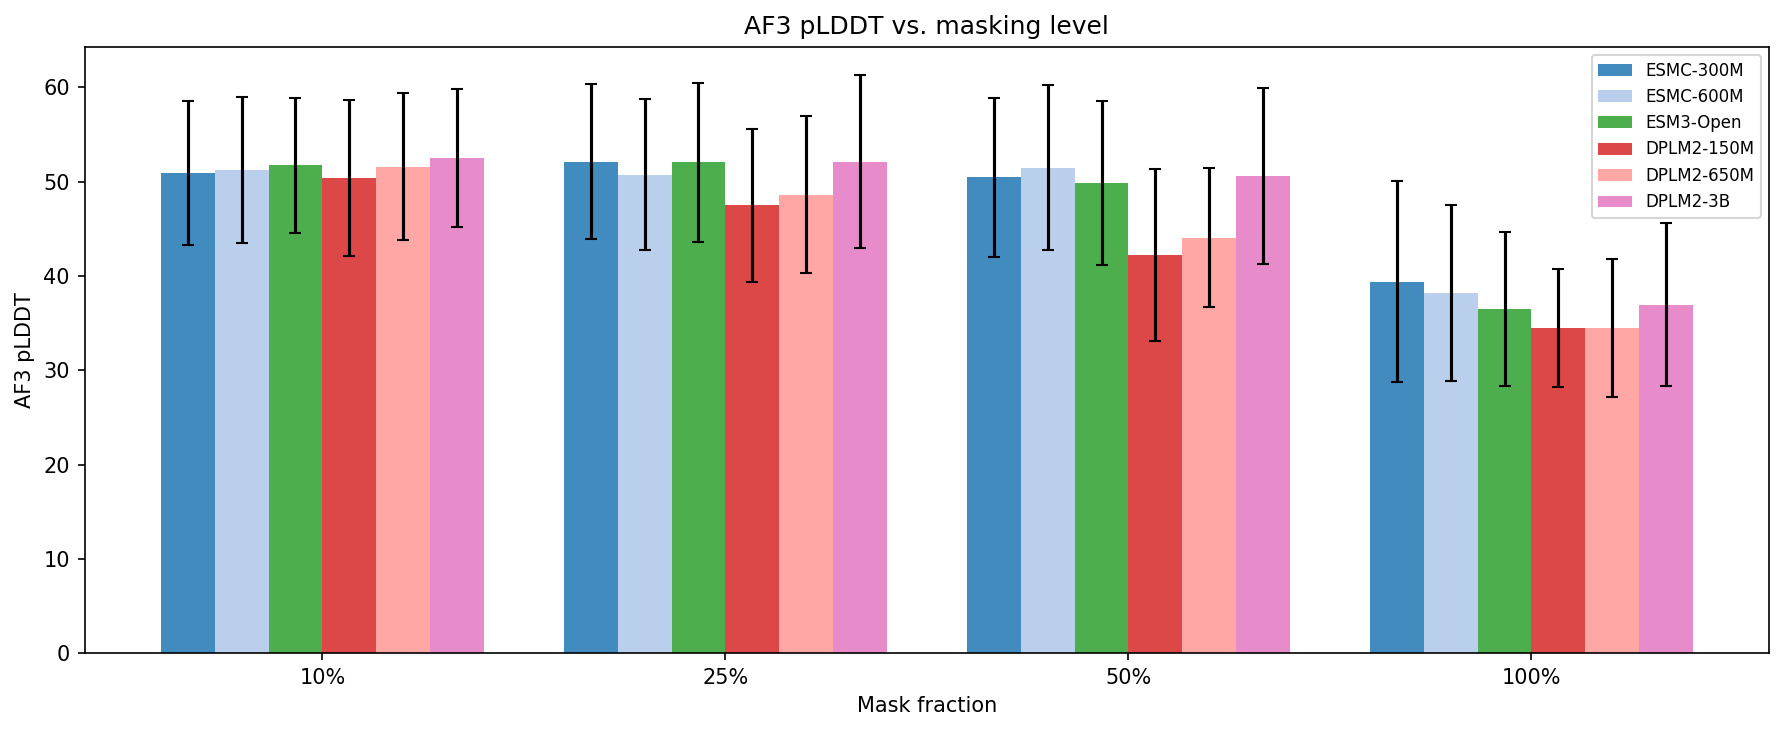
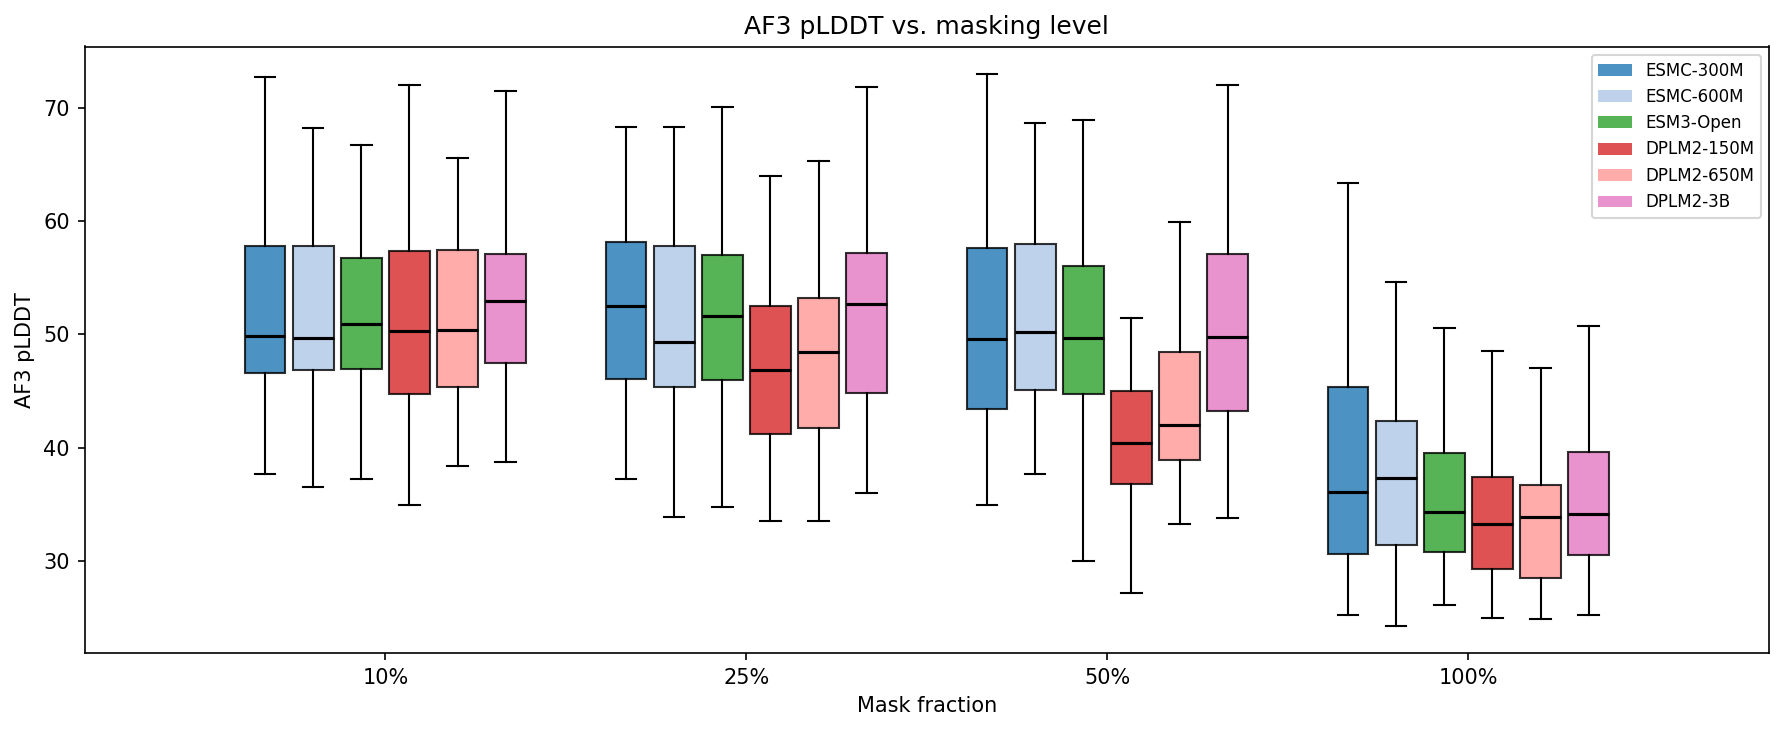
Improve benchmark plots: boxplots, 2x2 trajectories, ESM3 in scaling
1. Replace all bar charts with boxplots (median, quartiles, whiskers)
   - Fixes upside-down bars for negative log-prob values
   - Shows distribution spread properly
2. Likelihood trajectories: 2x2 grid instead of 1x4, mean + shaded
   ±1σ only (no individual traces) for readability
3. Scaling analysis: include all families (ESM3 was missing because
   it only has 1 model; now shown as single boxplot)
4. Add .env to .gitignore (contains FORGE_TOKEN)

diff --git a/examples/benchmark_model_families/analyze.py b/examples/benchmark_model_families/analyze.py
@@ -335,14 +335,17 @@ def build_metrics_table(data: dict) -> list[dict]:
 
 
 def plot_likelihood_trajectories(metrics: list[dict]):
-    """Plot per-step log-probability curves grouped by mask fraction and model."""
-    fig, axes = plt.subplots(
-        1, len(MASK_FRACTIONS), figsize=(5 * len(MASK_FRACTIONS), 5), sharey=True
-    )
-    if len(MASK_FRACTIONS) == 1:
-        axes = [axes]
+    """Plot per-step log-probability curves grouped by mask fraction and model.
 
-    for ax, mf in zip(axes, MASK_FRACTIONS):
+    2×2 grid, mean curve + shaded ±1 std region only (no individual trajectories).
+    """
+    n = len(MASK_FRACTIONS)
+    nrows, ncols = 2, 2
+    fig, axes = plt.subplots(nrows, ncols, figsize=(12, 10), sharey=True)
+    axes = axes.flatten()
+
+    for idx, mf in enumerate(MASK_FRACTIONS):
+        ax = axes[idx]
         for model_name, color in MODEL_COLORS.items():
             model_rows = [
                 r
@@ -352,45 +355,43 @@ def plot_likelihood_trajectories(metrics: list[dict]):
             if not model_rows:
                 continue
 
-            # Collect all trajectories, normalize to [0, 1] fraction complete
-            for row in model_rows:
-                lps = row["step_log_probs"]
-                if not lps:
-                    continue
-                n = len(lps)
-                xs = np.linspace(0, 1, n)
-                ax.plot(xs, lps, alpha=0.15, color=color, linewidth=0.5)
-
-            # Mean trajectory (interpolate to common grid)
             all_lps = [
                 row["step_log_probs"] for row in model_rows if row["step_log_probs"]
             ]
-            if all_lps:
-                common_grid = np.linspace(0, 1, 50)
-                interp_lps = []
-                for lps in all_lps:
-                    xs = np.linspace(0, 1, len(lps))
-                    interp_lps.append(np.interp(common_grid, xs, lps))
-                mean_lp = np.mean(interp_lps, axis=0)
-                std_lp = np.std(interp_lps, axis=0)
-                ax.plot(
-                    common_grid, mean_lp, color=color, linewidth=2, label=model_name
-                )
-                ax.fill_between(
-                    common_grid,
-                    mean_lp - std_lp,
-                    mean_lp + std_lp,
-                    alpha=0.15,
-                    color=color,
-                )
+            if not all_lps:
+                continue
 
+            common_grid = np.linspace(0, 1, 50)
+            interp_lps = []
+            for lps in all_lps:
+                xs = np.linspace(0, 1, len(lps))
+                interp_lps.append(np.interp(common_grid, xs, lps))
+            mean_lp = np.mean(interp_lps, axis=0)
+            std_lp = np.std(interp_lps, axis=0)
+            ax.plot(common_grid, mean_lp, color=color, linewidth=2, label=model_name)
+            ax.fill_between(
+                common_grid,
+                mean_lp - std_lp,
+                mean_lp + std_lp,
+                alpha=0.2,
+                color=color,
+            )
+
+        ax.set_title(f"Mask = {mf:.0%}", fontsize=12)
         ax.set_xlabel("Fraction of masked positions filled")
-        ax.set_title(f"Mask = {mf:.0%}")
-        if ax == axes[0]:
+        if idx % ncols == 0:
             ax.set_ylabel("Log p(sampled token)")
 
-    axes[-1].legend(bbox_to_anchor=(1.05, 1), loc="upper left", fontsize=8)
-    fig.suptitle("Generation log-likelihood trajectories", fontsize=14, y=1.02)
+    # Hide unused subplots if MASK_FRACTIONS < 4
+    for idx in range(n, nrows * ncols):
+        axes[idx].set_visible(False)
+
+    # Single legend outside the grid
+    handles, labels = axes[0].get_legend_handles_labels()
+    fig.legend(
+        handles, labels, loc="center right", bbox_to_anchor=(1.12, 0.5), fontsize=9
+    )
+    fig.suptitle("Generation log-likelihood trajectories", fontsize=14)
     fig.tight_layout()
     fig.savefig(PLOT_DIR / "likelihood_trajectories.png", dpi=150, bbox_inches="tight")
     plt.close(fig)
@@ -400,20 +401,26 @@ def plot_likelihood_trajectories(metrics: list[dict]):
 def plot_metric_vs_masking(
     metrics: list[dict], metric_key: str, ylabel: str, filename: str
 ):
-    """Bar chart of a metric across models and masking levels."""
+    """Boxplot of a metric across models and masking levels."""
     models = list(MODEL_COLORS.keys())
     available_models = [m for m in models if any(r["model"] == m for r in metrics)]
 
-    fig, ax = plt.subplots(figsize=(12, 5))
     n_models = len(available_models)
     n_fracs = len(MASK_FRACTIONS)
-    bar_width = 0.8 / n_models
-    x = np.arange(n_fracs)
+    fig, ax = plt.subplots(figsize=(max(12, n_fracs * 3), 5))
 
-    for i, model_name in enumerate(available_models):
-        means = []
-        stds = []
-        for mf in MASK_FRACTIONS:
+    # Group width and box width
+    group_width = 0.8
+    box_width = group_width / n_models
+    positions_all = []
+    colors_all = []
+    data_all = []
+    tick_positions = []
+
+    for j, mf in enumerate(MASK_FRACTIONS):
+        group_center = j
+        tick_positions.append(group_center)
+        for i, model_name in enumerate(available_models):
             vals = [
                 r[metric_key]
                 for r in metrics
@@ -421,27 +428,40 @@ def plot_metric_vs_masking(
                 and r["mask_fraction"] == mf
                 and not np.isnan(r.get(metric_key, float("nan")))
             ]
-            means.append(np.mean(vals) if vals else 0)
-            stds.append(np.std(vals) if vals else 0)
+            if not vals:
+                vals = [float("nan")]
+            offset = (i - n_models / 2 + 0.5) * box_width
+            positions_all.append(group_center + offset)
+            colors_all.append(MODEL_COLORS[model_name])
+            data_all.append(vals)
 
-        offset = (i - n_models / 2 + 0.5) * bar_width
-        ax.bar(
-            x + offset,
-            means,
-            bar_width,
-            yerr=stds,
-            label=model_name,
-            color=MODEL_COLORS[model_name],
-            alpha=0.85,
-            capsize=3,
-        )
+    bp = ax.boxplot(
+        data_all,
+        positions=positions_all,
+        widths=box_width * 0.85,
+        patch_artist=True,
+        showfliers=False,
+        medianprops={"color": "black", "linewidth": 1.5},
+        whiskerprops={"linewidth": 1},
+        capprops={"linewidth": 1},
+    )
 
-    ax.set_xticks(x)
+    for patch, color in zip(bp["boxes"], colors_all):
+        patch.set_facecolor(color)
+        patch.set_alpha(0.8)
+
+    # Legend: one entry per model
+    legend_handles = [
+        plt.Rectangle((0, 0), 1, 1, facecolor=MODEL_COLORS[m], alpha=0.8)
+        for m in available_models
+    ]
+    ax.legend(legend_handles, available_models, fontsize=8)
+
+    ax.set_xticks(tick_positions)
     ax.set_xticklabels([f"{mf:.0%}" for mf in MASK_FRACTIONS])
     ax.set_xlabel("Mask fraction")
     ax.set_ylabel(ylabel)
     ax.set_title(f"{ylabel} vs. masking level")
-    ax.legend(fontsize=8)
     fig.tight_layout()
     fig.savefig(PLOT_DIR / filename, dpi=150, bbox_inches="tight")
     plt.close(fig)
@@ -449,15 +469,16 @@ def plot_metric_vs_masking(
 
 
 def plot_scaling_analysis(metrics: list[dict]):
-    """How model scaling affects generation quality at different masking levels."""
+    """How model scaling affects generation quality at different masking levels.
+
+    Uses boxplots. All families shown (including single-model families like ESM3).
+    """
     families = defaultdict(list)
     for family, display_name, _, n_params in MODEL_CONFIGS:
         families[family].append((display_name, n_params))
 
-    # Only plot families with > 1 model
-    multi_scale_families = {k: v for k, v in families.items() if len(v) > 1}
-    if not multi_scale_families:
-        print("No multi-scale families found, skipping scaling analysis")
+    if not families:
+        print("No families found, skipping scaling analysis")
         return
 
     for metric_key, ylabel in [
@@ -473,12 +494,12 @@ def plot_scaling_analysis(metrics: list[dict]):
             axes = [axes]
 
         for ax, mf in zip(axes, MASK_FRACTIONS):
-            for family, models in multi_scale_families.items():
+            for family, models in families.items():
+                sorted_models = sorted(models, key=lambda x: x[1])
                 param_counts = []
-                mean_vals = []
-                std_vals = []
+                box_data = []
 
-                for model_name, n_params in sorted(models, key=lambda x: x[1]):
+                for model_name, n_params in sorted_models:
                     vals = [
                         r[metric_key]
                         for r in metrics
@@ -488,28 +509,60 @@ def plot_scaling_analysis(metrics: list[dict]):
                     ]
                     if vals:
                         param_counts.append(n_params)
-                        mean_vals.append(np.mean(vals))
-                        std_vals.append(np.std(vals))
+                        box_data.append(vals)
 
-                if param_counts:
-                    ax.errorbar(
-                        param_counts,
-                        mean_vals,
-                        yerr=std_vals,
-                        marker="o",
-                        label=family.upper(),
-                        color=FAMILY_COLORS[family],
-                        capsize=4,
-                        linewidth=2,
+                if not param_counts:
+                    continue
+
+                color = FAMILY_COLORS[family]
+                # Box width in log-space: fraction of the axis range
+                log_positions = [np.log10(p) for p in param_counts]
+                log_width = 0.08  # width in log10 units
+
+                bp = ax.boxplot(
+                    box_data,
+                    positions=log_positions,
+                    widths=log_width,
+                    patch_artist=True,
+                    showfliers=False,
+                    medianprops={"color": "black", "linewidth": 1.5},
+                    whiskerprops={"color": color, "linewidth": 1},
+                    capprops={"color": color, "linewidth": 1},
+                    manage_ticks=False,
+                )
+                for patch in bp["boxes"]:
+                    patch.set_facecolor(color)
+                    patch.set_alpha(0.7)
+
+                # Connect medians with a line for families with >1 model
+                if len(param_counts) > 1:
+                    medians = [np.median(d) for d in box_data]
+                    ax.plot(
+                        log_positions,
+                        medians,
+                        color=color,
+                        linewidth=1.5,
+                        alpha=0.6,
+                        zorder=0,
                     )
 
-            ax.set_xlabel("Parameters (M)")
-            ax.set_xscale("log")
+            # Format x-axis as log with parameter labels
+            all_params = sorted({p for ms in families.values() for _, p in ms})
+            ax.set_xticks([np.log10(p) for p in all_params])
+            ax.set_xticklabels([f"{p}M" for p in all_params], fontsize=7, rotation=45)
+            ax.set_xlabel("Parameters")
             ax.set_title(f"Mask = {mf:.0%}")
             if ax == axes[0]:
                 ax.set_ylabel(ylabel)
 
-        axes[-1].legend(fontsize=8)
+        # Legend: one entry per family
+        legend_handles = [
+            plt.Rectangle((0, 0), 1, 1, facecolor=FAMILY_COLORS[f], alpha=0.7)
+            for f in families
+        ]
+        legend_labels = [f.upper() for f in families]
+        axes[-1].legend(legend_handles, legend_labels, fontsize=8)
+
         fig.suptitle(f"Scaling: {ylabel}", fontsize=13, y=1.02)
         fig.tight_layout()
         fname = f"scaling_{metric_key}.png"
